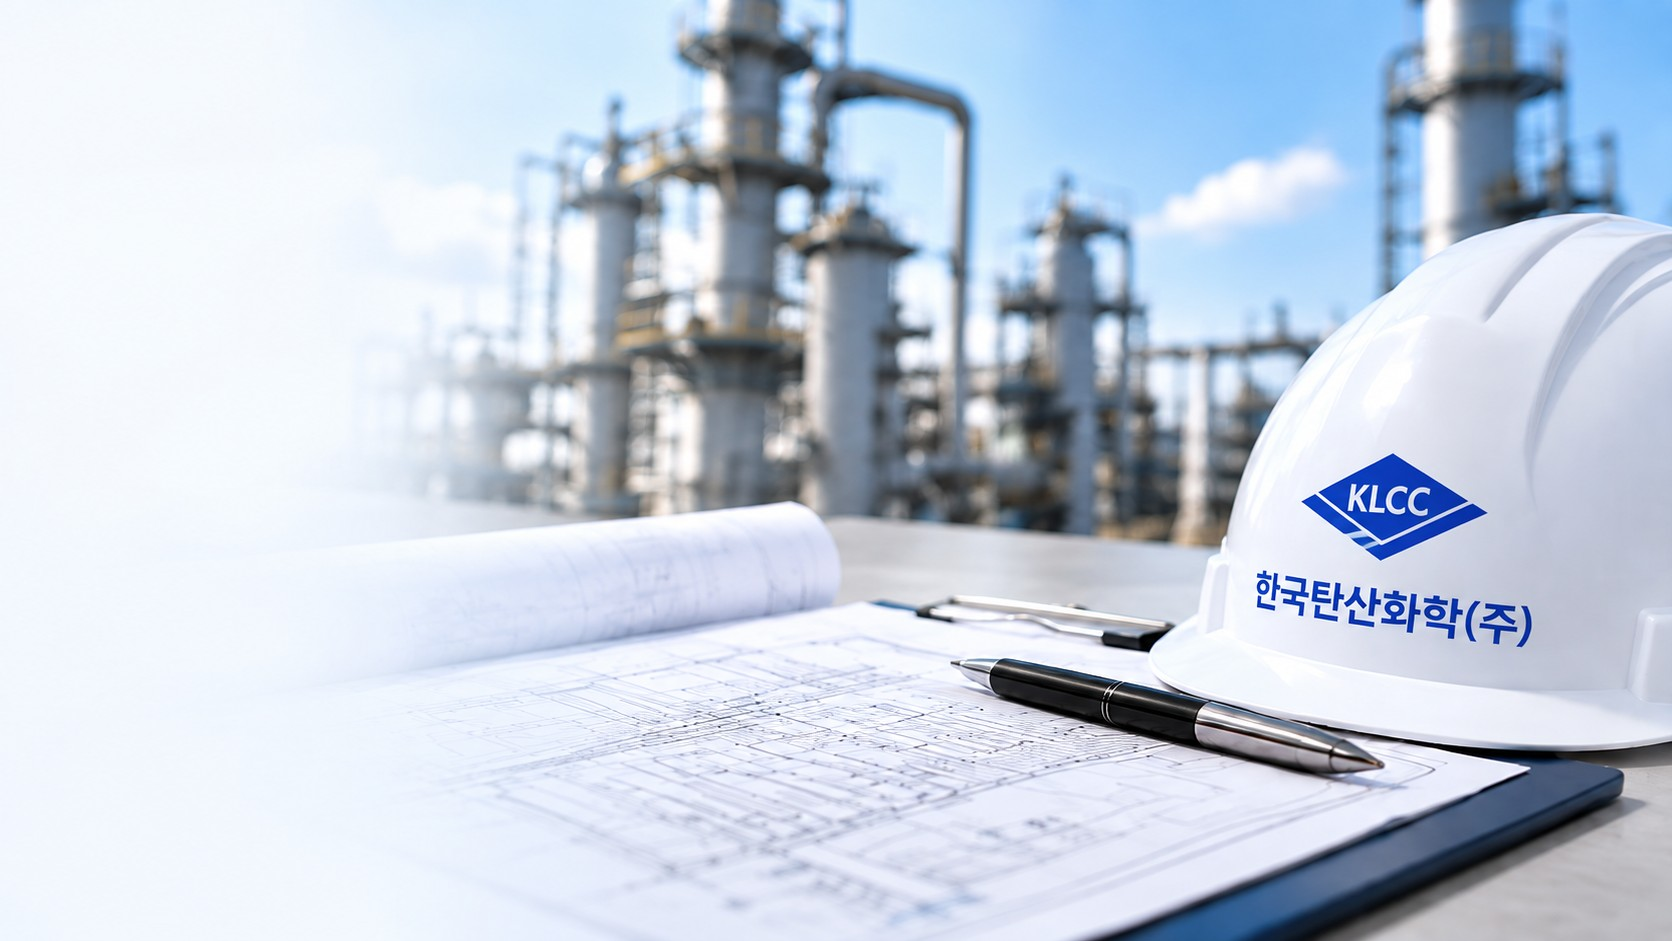
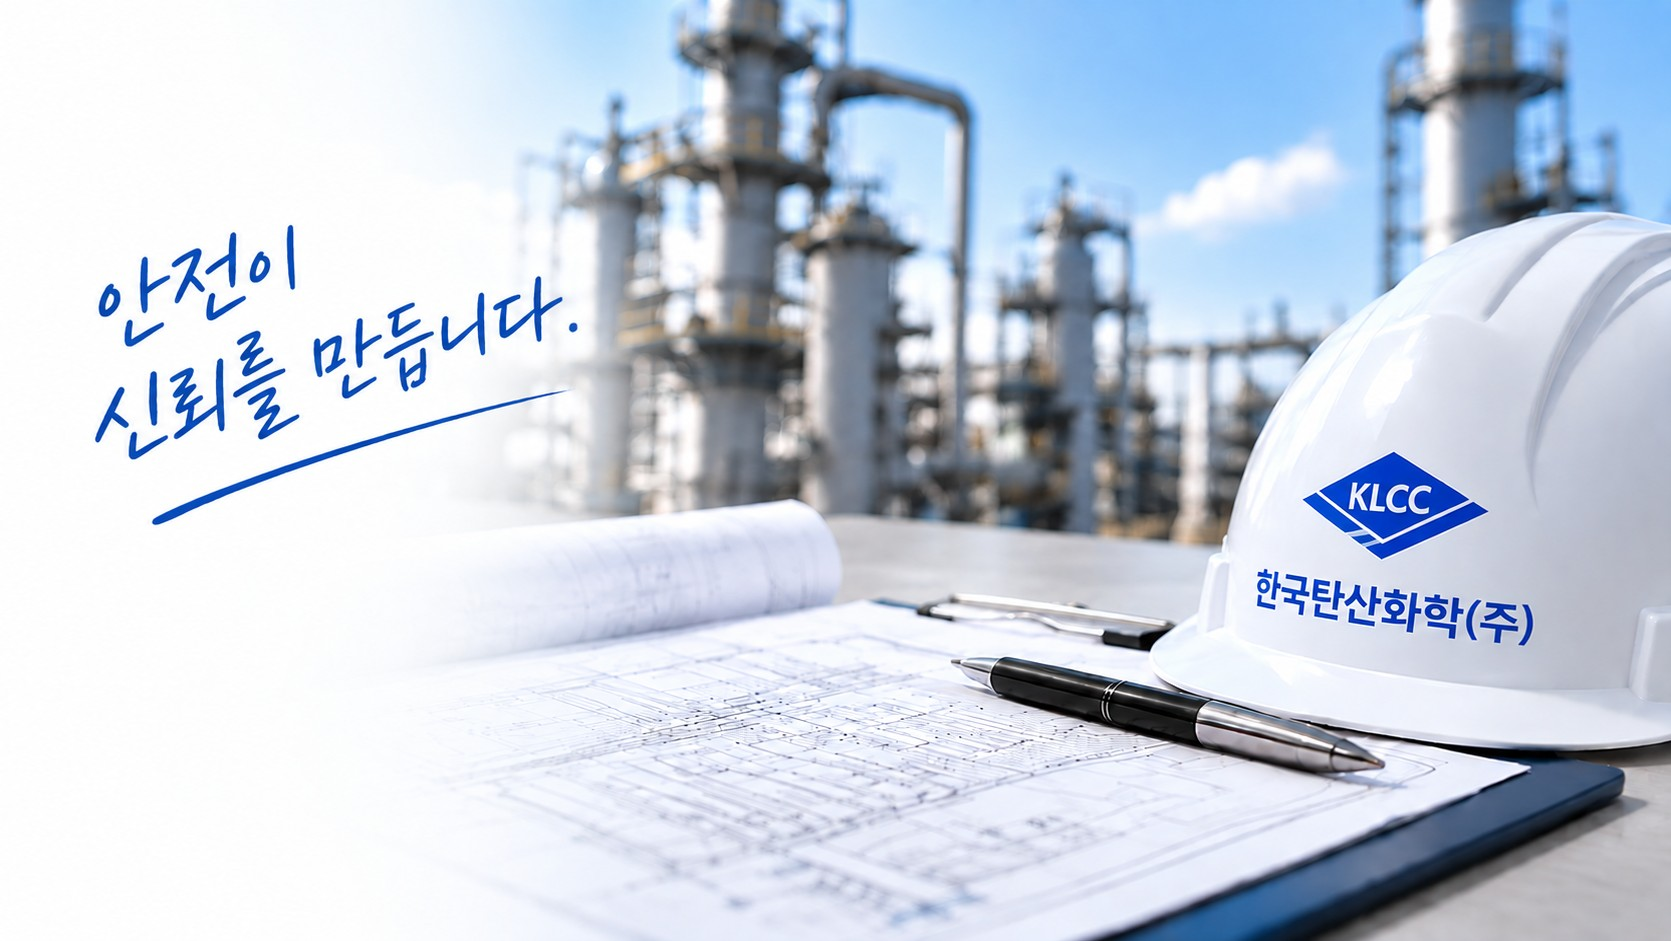
시설·시공 SAFETY & COMPLIANCE 우측 이미지를 손글씨 포함 신규 사진으로 교체(safety-hero?v=2), CSS 오버레이 문구 제거, 이미지 컬럼 확대로 문구·안전모 모두 표시. style.css ?v=565

diff --git a/assets/css/style.css b/assets/css/style.css
@@ -2279,7 +2279,7 @@ html[lang="en"] .greeting__sign .sign-name { display: block; margin-left: 0; mar
 }
 
 /* 안전·품질·인허가 재구성(SAFETY & COMPLIANCE) */
-.safecompl { display: grid; grid-template-columns: 1fr 1.15fr 0.92fr; align-items: stretch; gap: 0; margin-top: var(--space-6); background: #fff; border: 1px solid var(--border); border-radius: var(--radius-lg); overflow: hidden; box-shadow: var(--shadow-sm); }
+.safecompl { display: grid; grid-template-columns: 0.95fr 1.05fr 1.15fr; align-items: stretch; gap: 0; margin-top: var(--space-6); background: #fff; border: 1px solid var(--border); border-radius: var(--radius-lg); overflow: hidden; box-shadow: var(--shadow-sm); }
 .safecompl__intro { padding: var(--space-7); display: flex; flex-direction: column; justify-content: center; }
 .safecompl__ic-lg { width: 46px; height: 46px; color: var(--brand); margin-bottom: var(--space-4); }
 .safecompl__ic-lg svg, .safecompl__ic-lg img { width: 100%; height: 100%; object-fit: contain; display: block; }
@@ -2292,7 +2292,7 @@ html[lang="en"] .greeting__sign .sign-name { display: block; margin-left: 0; mar
 .safecompl__tx b { display: block; font-size: .95rem; font-weight: 800; color: var(--text); margin-bottom: 3px; }
 .safecompl__tx p { margin: 0; font-size: .82rem; line-height: 1.5; color: var(--text-muted); word-break: keep-all; }
 .safecompl__media { position: relative; min-height: 260px; }
-.safecompl__media img { position: absolute; inset: 0; width: 100%; height: 100%; object-fit: cover; display: block; }
+.safecompl__media img { position: absolute; inset: 0; width: 100%; height: 100%; object-fit: cover; object-position: center; display: block; }
 .safecompl__hand { position: absolute; top: var(--space-5); right: var(--space-5); z-index: 1; text-align: right; font-size: 1.05rem; font-weight: 800; color: var(--brand); line-height: 1.4; transform: rotate(-6deg); text-shadow: 0 1px 6px rgba(255,255,255,.8); }
 @media (max-width: 980px) {
   .safecompl { grid-template-columns: 1fr 1fr; }

diff --git a/products-construction.html b/products-construction.html
@@ -7,7 +7,7 @@
   <meta name="description" content="가스 설비 시설·시공 — 액화가스 저장탱크·기화설비·배관·공급설비를 설계부터 시운전·사후관리까지 원스톱으로 시공합니다.">
   <link rel="stylesheet" href="assets/css/reset.css">
   <link rel="stylesheet" href="assets/css/variables.css?v=20260801">
-  <link rel="stylesheet" href="assets/css/style.css?v=20260731-564">
+  <link rel="stylesheet" href="assets/css/style.css?v=20260731-565">
 </head>
 <body>
 
@@ -280,8 +280,7 @@
             </li>
           </ul>
           <div class="safecompl__media">
-            <img src="assets/images/site/construction/safety-hero.jpg?v=1" alt="한국탄산화학 안전관리 현장" loading="lazy">
-            <span class="safecompl__hand">안전이<br>신뢰를 만듭니다.</span>
+            <img src="assets/images/site/construction/safety-hero.jpg?v=2" alt="한국탄산화학 안전관리 현장" loading="lazy">
           </div>
         </div>
         <div class="section__foot"><a class="btn btn--primary" href="support.html#contact">시설·시공 문의하기 →</a></div>

diff --git a/company.html b/company.html
@@ -7,7 +7,7 @@
   <meta name="description" content="한국탄산화학㈜ 회사소개 — 회사 개요, 주요 사업 영역, 연혁, 조직도, 생산시설 및 강점.">
   <link rel="stylesheet" href="assets/css/reset.css">
   <link rel="stylesheet" href="assets/css/variables.css?v=20260801">
-  <link rel="stylesheet" href="assets/css/style.css?v=20260731-564">
+  <link rel="stylesheet" href="assets/css/style.css?v=20260731-565">
   <!-- 대표이사 서명용 손글씨 폰트 (한글: Nanum Pen Script, 일어: Yomogi) -->
   <link rel="preconnect" href="https://fonts.googleapis.com">
   <link rel="preconnect" href="https://fonts.gstatic.com" crossorigin>

diff --git a/company-overview.html b/company-overview.html
@@ -8,7 +8,7 @@
   <meta name="description" content="한국탄산화학㈜ 회사 개요와 조직도 — 상호·설립·사업분야·생산제품 및 조직 구성.">
   <link rel="stylesheet" href="assets/css/reset.css">
   <link rel="stylesheet" href="assets/css/variables.css?v=20260801">
-  <link rel="stylesheet" href="assets/css/style.css?v=20260731-564">
+  <link rel="stylesheet" href="assets/css/style.css?v=20260731-565">
   <!-- 대표이사 서명용 손글씨 폰트 (한글: Nanum Pen Script, 일어: Yomogi) -->
   <link rel="preconnect" href="https://fonts.googleapis.com">
   <link rel="preconnect" href="https://fonts.gstatic.com" crossorigin>

diff --git a/company-network.html b/company-network.html
@@ -7,7 +7,7 @@
   <meta name="description" content="한국탄산화학㈜ 계열사 — 관계사 네트워크.">
   <link rel="stylesheet" href="assets/css/reset.css">
   <link rel="stylesheet" href="assets/css/variables.css?v=20260801">
-  <link rel="stylesheet" href="assets/css/style.css?v=20260731-564">
+  <link rel="stylesheet" href="assets/css/style.css?v=20260731-565">
   <!-- 대표이사 서명용 손글씨 폰트 (한글: Nanum Pen Script, 일어: Yomogi) -->
   <link rel="preconnect" href="https://fonts.googleapis.com">
   <link rel="preconnect" href="https://fonts.gstatic.com" crossorigin>

diff --git a/products-supply.html b/products-supply.html
@@ -7,7 +7,7 @@
   <meta name="description" content="고압가스 용기 재검사 — 한국가스안전공사 지정 전문검사기관 ㈜부성테크니컬(계열사)이 접수·내압시험·표면처리·판정의 4단계 검사로 용기 안전을 책임집니다.">
   <link rel="stylesheet" href="assets/css/reset.css">
   <link rel="stylesheet" href="assets/css/variables.css?v=20260801">
-  <link rel="stylesheet" href="assets/css/style.css?v=20260731-564">
+  <link rel="stylesheet" href="assets/css/style.css?v=20260731-565">
 </head>
 <body>
 

diff --git a/products-ice.html b/products-ice.html
@@ -7,7 +7,7 @@
   <meta name="description" content="드라이아이스 너겟·블록 생산설비 日産 36톤. 고밀도 1.60g/㎤·고순도 99.995% 식품용 드라이아이스와 제조공정·용도·취급안전을 소개합니다.">
   <link rel="stylesheet" href="assets/css/reset.css">
   <link rel="stylesheet" href="assets/css/variables.css?v=20260801">
-  <link rel="stylesheet" href="assets/css/style.css?v=20260731-564">
+  <link rel="stylesheet" href="assets/css/style.css?v=20260731-565">
 </head>
 <body>
 

diff --git a/index.html b/index.html
@@ -7,7 +7,7 @@
   <meta name="description" content="한국탄산화학㈜(KLCC)는 산소·질소·아르곤·탄산·수소 등 산업용·의료용 가스와 드라이아이스를 제조·공급하는 전문기업입니다.">
   <link rel="stylesheet" href="assets/css/reset.css">
   <link rel="stylesheet" href="assets/css/variables.css?v=20260801">
-  <link rel="stylesheet" href="assets/css/style.css?v=20260731-564">
+  <link rel="stylesheet" href="assets/css/style.css?v=20260731-565">
 </head>
 <body>
 

diff --git a/products-gas.html b/products-gas.html
@@ -7,7 +7,7 @@
   <meta name="description" content="산업용·의료용·혼합·특수·액화석유가스 — 고순도 산소·질소·아르곤·수소·헬륨·탄산·LPG를 Bulk·실린더로 공급·제조합니다.">
   <link rel="stylesheet" href="assets/css/reset.css">
   <link rel="stylesheet" href="assets/css/variables.css?v=20260801">
-  <link rel="stylesheet" href="assets/css/style.css?v=20260731-564">
+  <link rel="stylesheet" href="assets/css/style.css?v=20260731-565">
 </head>
 <body>
 

diff --git a/quality.html b/quality.html
@@ -7,7 +7,7 @@
   <meta name="description" content="고순도 제조 역량, 식품첨가물 탄산가스 품질, 용기검사장, Gas Service Team.">
   <link rel="stylesheet" href="assets/css/reset.css">
   <link rel="stylesheet" href="assets/css/variables.css?v=20260801">
-  <link rel="stylesheet" href="assets/css/style.css?v=20260731-564">
+  <link rel="stylesheet" href="assets/css/style.css?v=20260731-565">
 </head>
 <body>
 

diff --git a/support.html b/support.html
@@ -7,7 +7,7 @@
   <meta name="description" content="한국탄산화학 고객지원 — 사업장 연락처, 자주 묻는 질문.">
   <link rel="stylesheet" href="assets/css/reset.css">
   <link rel="stylesheet" href="assets/css/variables.css?v=20260801">
-  <link rel="stylesheet" href="assets/css/style.css?v=20260731-564">
+  <link rel="stylesheet" href="assets/css/style.css?v=20260731-565">
 </head>
 <body>
 
